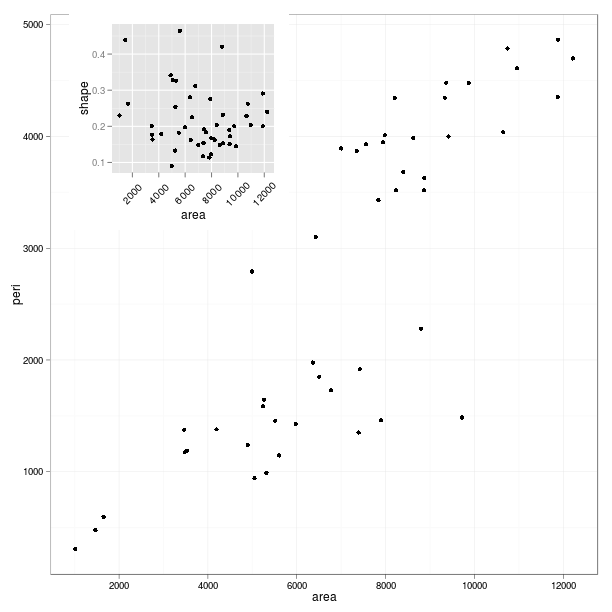
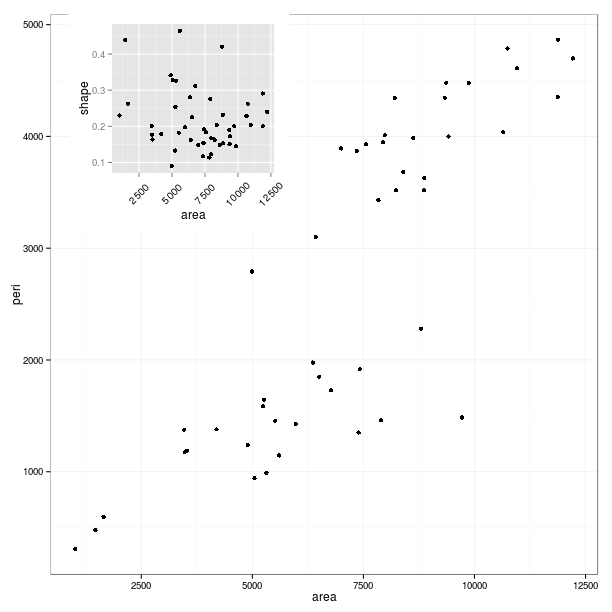
Mostly fixed issue #100. Deprecation warnings originating from ggplot2 remain to be addressed.

diff --git a/rpy/robjects/lib/ggplot2.py b/rpy/robjects/lib/ggplot2.py
@@ -4,14 +4,19 @@ import rpy2.robjects.conversion as conversion
 import rpy2.rinterface as rinterface
 from rpy2.robjects.packages import importr
 import copy
+import warnings
 
 NULL = robjects.NULL
 
 #getmethod = robjects.baseenv.get("getMethod")
 
 rimport = robjects.baseenv.get('library')
+
 ggplot2 = importr('ggplot2')
 
+TARGET_VERSION = '0.9.2.1'
+if ggplot2.__version__ != TARGET_VERSION:
+   warnings.warn('This was designed againt ggplot2 version %s but you have %s' % (TARGET_VERSION, ggplot2.__version__))
 ggplot2_env = robjects.baseenv['as.environment']('package:ggplot2')
 
 StrVector = robjects.StrVector
@@ -24,7 +29,7 @@ class GGPlot(robjects.RObject):
 
     _constructor = ggplot2._env['ggplot']
     _rprint = ggplot2._env['print.ggplot']
-    _add = ggplot2._env['+.ggplot']
+    _add = ggplot2._env['%+%']
 
     @classmethod
     def new(cls, data):
@@ -36,7 +41,7 @@ class GGPlot(robjects.RObject):
 
     def __add__(self, obj):
         res = self._add(self, obj)
-        if res.rclass[0] != 'ggplot':
+        if res.rclass[0] != 'gg':
            raise ValueError("Added object did not give a ggplot result (get class '%s')." % res.rclass[0])
         return GGPlot(res)
 
@@ -528,6 +533,25 @@ class Options(robjects.Vector):
       s = '<instance of %s : %i>' %(type(self), id(self)) 
       return s
 
+
+class Element(Options):
+   pass
+
+class ElementText(Element):
+    _constructor = ggplot2.element_text
+    @classmethod
+    def new(cls, family = "", face = "plain", colour = "black", size = 10,
+            hjust = 0.5, vjust = 0.5, angle = 0, lineheight = 1.1, 
+            color = NULL):
+       res = cls(cls._constructor(family = family, face = face, 
+                                  colour = colour, size = size,
+                                  hjust = hjust, vjust = vjust, 
+                                  angle = angle, lineheight = lineheight))
+       return res
+element_text = ElementText.new
+
+
+
 class Theme(Options):
    pass
 
@@ -570,18 +594,6 @@ class ThemeSegment(Theme):
        return res
 theme_segment = ThemeSegment.new
 
-# Theme text is not a vector :/
-class ThemeText(robjects.Function):
-    _constructor = ggplot2.theme_text
-    @classmethod
-    def new(cls, family = "", face = "plain", colour = "black", size = 10,
-            hjust = 0.5, vjust = 0.5, angle = 0, lineheight = 1.1):
-       res = cls(cls._constructor(family = family, face = face, 
-                                  colour = colour, size = size,
-                                  hjust = hjust, vjust = vjust, 
-                                  angle = angle, lineheight = lineheight))
-       return res
-theme_text = ThemeText.new
 
 class ThemeBW(Theme):
     _constructor = ggplot2.theme_bw
@@ -630,7 +642,7 @@ def ggplot2_conversion(robj):
     if rcls is NULL:
        rcls = (None, )
 
-    if 'ggplot' in rcls:
+    if 'gg' in rcls:
        pyobj = GGPlot(pyobj)
 
     return pyobj

diff --git a/rpy/robjects/packages.py b/rpy/robjects/packages.py
@@ -12,6 +12,7 @@ _as_env = rinterface.baseenv['as.environment']
 _package_has_namespace = rinterface.baseenv['packageHasNamespace']
 _system_file = rinterface.baseenv['system.file']
 _get_namespace = rinterface.baseenv['getNamespace']
+_get_namespace_version = rinterface.baseenv['getNamespaceVersion']
 _get_namespace_exports = rinterface.baseenv['getNamespaceExports']
 _find_package = rinterface.baseenv['.find.package']
 _packages = rinterface.baseenv['.packages']
@@ -61,9 +62,11 @@ class Package(ModuleType):
     __fill_rpy2r__ = None
     __update_dict__ = None
     _exported_names = None
+    __version__ = None
 
     def __init__(self, env, name, translation = {}, 
-                 exported_names = None, on_conflict = 'fail'):
+                 exported_names = None, on_conflict = 'fail',
+                 version = None):
         """ Create a Python module-like object from an R environment,
         using the specified translation if defined. 
 
@@ -81,6 +84,7 @@ class Package(ModuleType):
         self._exported_names = exported_names
         self.__fill_rpy2r__(on_conflict = on_conflict)
         self._exported_names = self._exported_names.difference(mynames)
+        self.__version__ = version
                 
     def __update_dict__(self, on_conflict = 'fail'):
         """ Update the __dict__ according to what is in the R environment """
@@ -201,20 +205,23 @@ def importr(name,
     if _package_has_namespace(rname, 
                               _system_file(package = rname)):
         env = _get_namespace(rname)
+        version = _get_namespace_version(rname)[0]
         exported_names = set(_get_namespace_exports(rname))
     else:
         env = _as_env(rinterface.StrSexpVector(['package:'+name, ]))
         exported_names = None
-
+        version = None
     if signature_translation:
         pack = SignatureTranslatedPackage(env, name, 
                                           translation = robject_translations,
                                           exported_names = exported_names,
-                                          on_conflict = on_conflict)
+                                          on_conflict = on_conflict,
+                                          version = version)
     else:
         pack = Package(env, name, translation = robject_translations,
                        exported_names = exported_names,
-                       on_conflict = on_conflict)
+                       on_conflict = on_conflict,
+                       version = version)
         
     return pack
 

diff --git a/doc/source/_static/demos/graphics.py b/doc/source/_static/demos/graphics.py
@@ -689,7 +689,7 @@ vp = grid.viewport(width = 0.6, height = 0.6, x = 0.37, y=0.69)
 vp.push()
 p = ggplot2.ggplot(rock) + \
     ggplot2.geom_point(ggplot2.aes_string(x = 'area', y = 'shape')) + \
-    ggplot2.opts(**{'axis.text.x': ggplot2.theme_text(angle = 45)})
+    ggplot2.opts(**{'axis.text.x': ggplot2.element_text(angle = 45)})
 
 p.plot(vp = vp)
 
